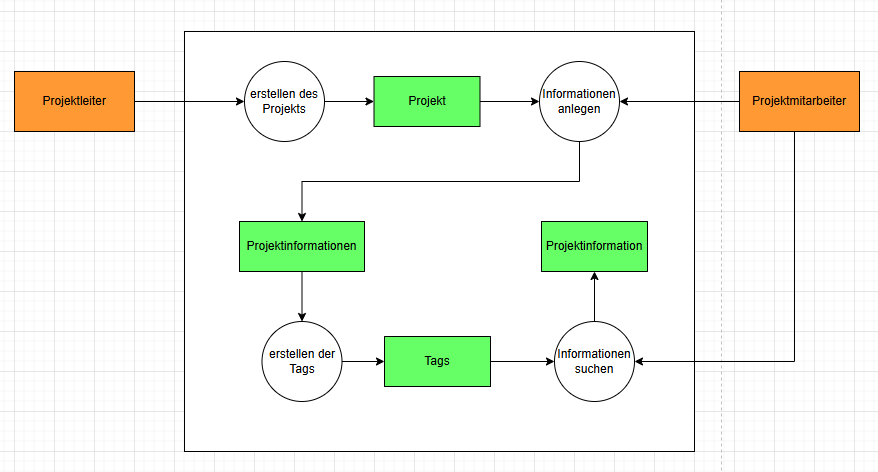
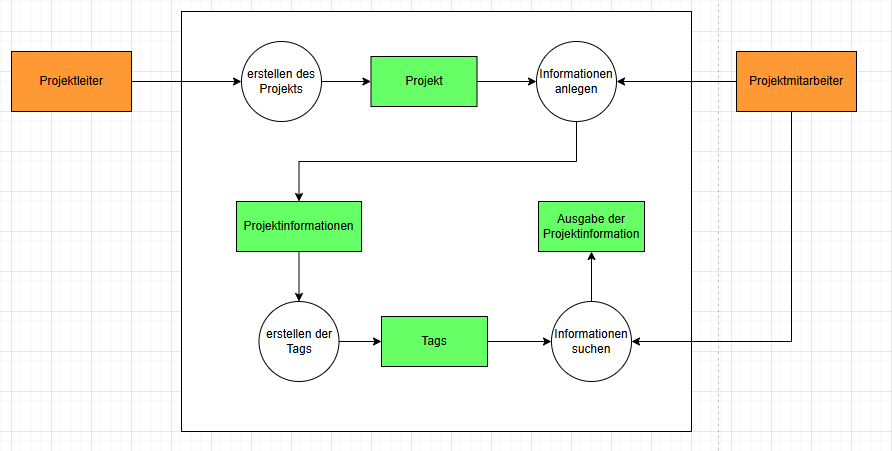
Add kommunikationsdiagramm

Changed region(s): [[0.0, 0.0621, 0.9841, 0.9623], [0.5843, 0.4346, 0.738, 0.5898]]

diff --git a/doc/Planing.md b/doc/Planing.md
@@ -1,17 +1,17 @@
 # Planing
 
-| Aktivität              | Stunden geplannt | Stunden geleistet | Delta | Erklärung |
-| ---------------------- | ---------------- | ----------------- | ----- | --------- |
-| Planung                | 1                |                   |       |           |
-| Context Map            | 1                |                   |       |           |
-| Anforderungsanalyse    | 1                |                   |       |           |
-| Risikoanalyse          | 1                |                   |       |           |
-| Kontextdiagramm        | 1                |                   |       |           |
-| Kommunikationsdiagramm | 1                |                   |       |           |
-| Klassendiagramm        | 1                |                   |       |           |
-| Testplan               | 1                |                   |       |           |
-| Unit-tests             | 2                |                   |       |           |
-| Programmierung         | 5                |                   |       |           |
-| Dokumentation          | 3                |                   |       |           |
-| Präsentation           | 1                |                   |       |           |
-| Reserve                | 2                |                   |       |           |
+| Aktivität                   | Stunden geplannt | Stunden geleistet (zusammen) | Delta | Erklärung |
+| --------------------------- | ---------------- | ---------------------------- | ----- | --------- |
+| Initialisierung und Planung | 1                | 1                            |       |           |
+| Context Map                 | 1                | 0.5                          |       |           |
+| Anforderungsanalyse         | 1                | 1                            |       |           |
+| Risikoanalyse               | 1                | 0.5                          |       |           |
+| Kontextdiagramm             | 1                | 0.5                          |       |           |
+| Kommunikationsdiagramm      | 1                | 0.75                         |       |           |
+| Klassendiagramm             | 1                |                              |       |           |
+| Testplan                    | 1                |                              |       |           |
+| Unit-tests                  | 2                |                              |       |           |
+| Programmierung              | 5                |                              |       |           |
+| Dokumentation               | 3                |                              |       |           |
+| Präsentation                | 1                |                              |       |           |
+| Reserve                     | 2                |                              |       |           |
